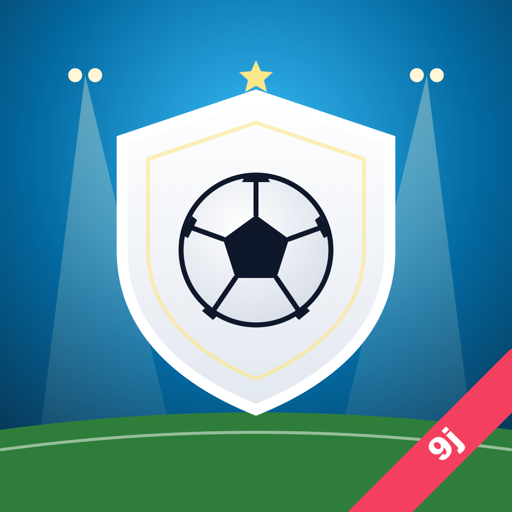
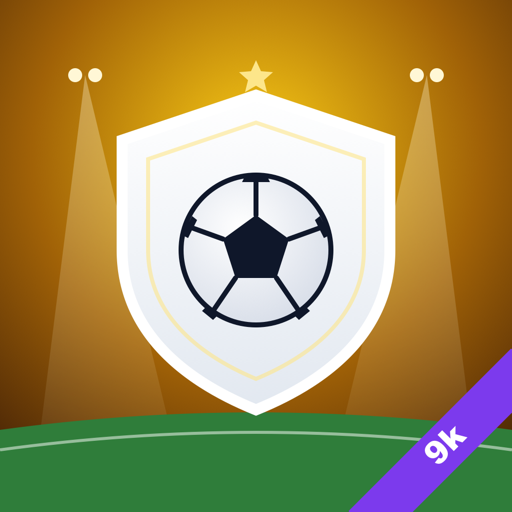
Add files via upload

diff --git a/js/gear.js b/js/gear.js
@@ -1,0 +1,80 @@
+// Club FC: player gear (phase-9k, round 4 item 34). Equipment belongs to your program, not the player: boots, shin pads,
+// a training vest and keeper gloves add + boosts to attributes, and when a player graduates their gear comes back to the
+// kit room for the next one. Gear comes from playing (Missions, chests, the free Pass track), never from the Store,
+// so money still never buys results. Boosts apply in matches only; a player's rating and development stay their own.
+(function (C) {
+  const A = C.ACTS, meta = () => C.meta();
+  const OUT = ['pac', 'sho', 'pas', 'dri', 'def', 'phy'], GK = ['stp', 'crs', 'str', 'ref', 'psn', 'dis'];
+  C.GEAR = {
+    boots: { icon: '👟', name: 'Boots', main: ['pac', 'dri'], gkMain: ['dis', 'ref'] },
+    shins: { icon: '🦺', name: 'Shin pads', main: ['def', 'phy'] },
+    vest: { icon: '🎽', name: 'Training vest', main: ['phy', 'pas'], gkMain: ['str', 'psn'] },
+    gloves: { icon: '🧤', name: 'Keeper gloves', main: ['stp', 'crs'], gk: true }
+  };
+  const RAR = C.RARITY;   // Common … Ultra Rare
+  C.gearSlots = p => p.pos === 'GK' ? ['gloves', 'boots', 'vest'] : ['boots', 'shins', 'vest'];
+  C.gearCap = g => 5 * (g.rar + 1);                                   // level cap by rarity: 5, 10, 15, 20, 25
+  C.gearMain = g => Math.round(1 + g.rar * 1.2 + g.lv * .35);          // added to both main attributes
+  C.gearCost = g => Math.round(600 * (g.lv + 1) * (1 + g.rar * .5) / 50) * 50;
+  const gear = () => { const M = meta(); if (!M.gear) M.gear = []; return M.gear; };
+  C.gearList = gear;
+  const holder = g => g.on && C.P(g.on) ? g.on : null;                 // gear on a player who has left is free again
+  C.gearOn = (p, slot) => gear().find(g => holder(g) === p.id && g.slot === slot) || null;
+
+  // a new piece: rarity rolled (mostly Common/Uncommon), one bonus line per rarity step
+  C.makeGear = (r, slot, rar) => { if (rar == null) { const x = r(); rar = x < .5 ? 0 : x < .8 ? 1 : x < .95 ? 2 : x < .99 ? 3 : 4; }
+    if (!slot) slot = ['boots', 'shins', 'vest', 'gloves'][Math.floor(r() * 4)];
+    const pool = C.GEAR[slot].gk ? GK : OUT, ex = [];
+    for (let i = 0; i < rar; i++) ex.push([pool[Math.floor(r() * pool.length)], 1 + (r() < .3 ? 1 : 0)]);
+    return { id: 'g' + Math.floor(r() * 1e9).toString(36), slot, rar, lv: 1, ex, on: null }; };
+
+  // what a piece adds to one player: both main attributes, plus any bonus lines that player has
+  C.gearBonus = p => { const out = {}; for (const s of C.gearSlots(p)) { const g = C.gearOn(p, s); if (!g) continue; const d = C.GEAR[s], main = p.pos === 'GK' && d.gkMain ? d.gkMain : d.main, v = C.gearMain(g);
+      main.forEach(k => { if (p.a[k] != null) out[k] = (out[k] || 0) + v; }); g.ex.forEach(([k, n]) => { if (p.a[k] != null) out[k] = (out[k] || 0) + n; }); } return out; };
+  C.gearTotal = p => Object.values(C.gearBonus(p)).reduce((s, v) => s + v, 0);
+
+  // matches: each player takes the field with their gear (a copy, so saved attributes never change)
+  const withGear = p => { if (!p) return p; const b = C.gearBonus(p); if (!Object.keys(b).length) return p; const a = Object.assign({}, p.a); for (const k in b) a[k] = Math.min(99, a[k] + b[k]); return Object.assign({}, p, { a }); };
+  const oTeam = C.myTeam; C.myTeam = home => { const T = oTeam(home); T.xi = T.xi.map(withGear); T.bench = T.bench.map(withGear); return T; };
+
+  // rewards: 'gear' gives random pieces
+  const oGive = C.giveReward; C.giveReward = r => { if (r && r.gear && C.car()) { const rr = C.rng((C.now() ^ Math.floor(Math.random() * 1e9)) & 0x7fffffff); for (let i = 0; i < r.gear; i++) gear().push(C.makeGear(rr)); r = Object.assign({}, r); delete r.gear; } oGive(r); };
+  const oText = C.rwText; C.rwText = r => { if (!r || !r.gear) return oText(r); const o = Object.assign({}, r); delete o.gear; return [oText(o), `🎒 ${r.gear > 1 ? r.gear + '× ' : ''}Gear`].filter(Boolean).join(' · '); };
+  const oTiles = C.itemTiles; C.itemTiles = r => { if (!r || !r.gear) return oTiles(r); const o = Object.assign({}, r); delete o.gear; const s = oTiles(o); return s.slice(0, s.lastIndexOf('</span>')) + `<span class="itile t3" title="Gear">🎒<b>${r.gear}</b></span></span>`; };
+
+  // equip, unequip, upgrade
+  C.equip = (gid, pid) => { const g = gear().find(x => x.id === gid), p = C.P(pid); if (!g || !p || !C.gearSlots(p).includes(g.slot)) return false;
+    const cur = C.gearOn(p, g.slot); if (cur) cur.on = null; g.on = pid; C.save(); return true; };
+  C.unequip = gid => { const g = gear().find(x => x.id === gid); if (g) { g.on = null; C.save(); } };
+  C.upgradeGear = gid => { const g = gear().find(x => x.id === gid), car = C.car(); if (!g) return 'gone'; if (g.lv >= C.gearCap(g)) return 'max'; const k = C.gearCost(g); if (car.cash < k) return 'cash';
+    car.cash -= k; g.lv++; C.save(); return true; };
+
+  // ---------- screens ----------
+  const tile = (g, slot, empty) => g ? `<span class="gtile r${g.rar}"><i>${C.GEAR[g.slot].icon}</i><b>Lv.${g.lv}</b><em>${'★'.repeat(Math.max(1, g.rar))}</em></span>` : `<span class="gtile empty"><i>${C.GEAR[slot].icon}</i><b>${empty || '+'}</b></span>`;
+  const lineTxt = (g, p) => { const d = C.GEAR[g.slot], main = p && p.pos === 'GK' && d.gkMain ? d.gkMain : d.main, all = C.attrsOf(p || { pos: d.gk ? 'GK' : 'ST' }), nm = k => (C.ATTR[k] || C.GKATTR[k] || ['', k])[1];
+    return `<div class="gline main">${main.map(nm).join(' · ')} <b>+${C.gearMain(g)}</b></div>${g.ex.map(([k, n]) => `<div class="gline">🔹 ${nm(k)} <b>+${n}</b></div>`).join('')}`; };
+  // the gear row on a player's card
+  C.gearRowHTML = p => `<h3 class="jh">Gear ${C.gearTotal(p) ? `<small class="devp">+${C.gearTotal(p)} in matches</small>` : ''}</h3><div class="grow">${C.gearSlots(p).map(s => `<button class="gslot" data-act="gearslot" data-v="${p.id}|${s}">${tile(C.gearOn(p, s), s)}<small>${C.GEAR[s].name}</small></button>`).join('')}</div>
+    <p class="note" style="margin-top:4px">Gear belongs to your program: it comes back to the kit room when a player leaves.</p>`;
+  let pick = null;
+  A.gearslot = v => { const [pid, slot] = v.split('|'); pick = { pid, slot }; C.ui.open(C.GEAR[slot].name, slotHTML); };
+  function slotHTML() {
+    const p = C.P(pick.pid), slot = pick.slot, cur = C.gearOn(p, slot), list = gear().filter(g => g.slot === slot && g !== cur).sort((a, b) => b.rar - a.rar || b.lv - a.lv);
+    const row = (g, worn) => { const who = holder(g) ? C.P(g.on) : null;
+      return `<div class="gcard r${g.rar}">${tile(g)}<div class="gi"><b>${RAR[g.rar][0]} ${C.GEAR[g.slot].name}</b>${lineTxt(g, p)}${who && !worn ? `<small>Worn by ${C.esc(who.ln)}</small>` : ''}</div>
+        <div class="gb">${worn ? `<button class="btn sm2 sec2" data-act="gearoff" data-v="${g.id}">Remove</button>` : `<button class="btn sm2 pri" data-act="gearon" data-v="${g.id}">${who ? 'Swap' : 'Equip'}</button>`}
+        <button class="btn sm2 ${g.lv >= C.gearCap(g) ? 'sec2' : ''}" data-act="gearup" data-v="${g.id}" ${g.lv >= C.gearCap(g) ? 'disabled' : ''}>${g.lv >= C.gearCap(g) ? 'Max' : `⬆ 💵 ${C.short(C.gearCost(g))}`}</button></div></div>`; };
+    return `${cur ? `<label class="fld">Wearing</label>${row(cur, true)}` : ''}<label class="fld">Kit room</label>${list.length ? list.map(g => row(g, false)).join('') : '<p class="note">No spare pieces for this slot yet. Gear comes from Missions, chests and the free Pass track.</p>'}`;
+  }
+  A.gearon = v => { if (C.equip(v, pick.pid)) { C.toast('🎒 Equipped'); C.ui.back(); C.ui.refresh(); } };
+  A.gearoff = v => { C.unequip(v); C.ui.refresh(); };
+  A.gearup = v => { const r = C.upgradeGear(v); C.toast(r === true ? '⬆ Gear upgraded' : r === 'cash' ? 'Not enough Booster $' : 'At the level cap'); C.ui.refresh(); C.render(); };
+  // the kit room, in the Inventory
+  C.kitRoomHTML = () => { const list = gear().slice().sort((a, b) => b.rar - a.rar || b.lv - a.lv);
+    return list.length ? `<div class="kitg">${list.map(g => { const who = holder(g) ? C.P(g.on) : null; return `<div class="kitc">${tile(g)}<small>${C.GEAR[g.slot].name}</small><em>${who ? C.esc(who.ln) : 'Spare'}</em></div>`; }).join('')}</div>` : '<p class="note">No gear yet.</p>'; };
+
+  // ---------- sources (gameplay only) and a starter set ----------
+  const ensureStarter = () => { const car = C.car(); if (!car) return; const M = meta(); if (M.gearStart) return; M.gearStart = 1; const r = C.rng((car.created & 0xffffff) ^ 0x9e37);
+    ['boots', 'shins', 'vest', 'gloves'].forEach(s => gear().push(C.makeGear(r, s, 0))); C.save(); };
+  const oRender = C.render; C.render = () => { if (C.car()) ensureStarter(); return oRender(); };
+})(window.CFC);

diff --git a/js/meta.js b/js/meta.js
@@ -29,10 +29,11 @@
   let invTab = 'speed';
   C.openInventory = () => C.ui.open('Inventory', () => {
     const car = C.car(), inv = meta().inv, S = C.staffState(), it = car.items || {};
-    const tabs = [['speed', 'Speed-ups'], ['res', 'Resources'], ['special', 'Special']];
+    const tabs = [['speed', 'Speed-ups'], ['gear', 'Gear'], ['res', 'Resources'], ['special', 'Special']];
     const cell = (icon, n, label, act, v, cls = 't1') => `<button class="invc ${cls} ${n ? '' : 'none'}" ${n && act ? `data-act="${act}" data-v="${v}"` : 'disabled'}><span>${icon}</span><b>${n}</b><small>${label}</small></button>`;
     let body = '';
     if (invTab === 'speed') body = ['sp5', 'sp15', 'sp60', 'sp180'].map(k => cell('⏩', inv[k] || 0, XN[k][1].replace(' speed-up', ''), 'invspeed', k, 't' + TIER[k])).join('');
+    if (invTab === 'gear') return `<div class="res hres inv">${C.resBar()}</div><div class="bigtabs">${tabs.map(([k, n]) => `<button class="${invTab === k ? 'on' : ''}" data-act="invtab" data-v="${k}">${n}</button>`).join('')}</div>${C.kitRoomHTML ? C.kitRoomHTML() : ''}<p class="note">Equip gear from a player's card. It returns here when a player leaves. Gear comes from Missions, chests and the free Pass track.</p>`;
     if (invTab === 'res') body = cell('📦', inv.crate || 0, '$5K crate', 'invcrate', '', 't2') + cell('🏅', inv.badge || 0, 'Coaching Badges', 'tab', 'staff', 't3') + cell('📗', S.items.manual, 'Manuals', 'tab', 'staff') + cell('📕', S.items.books, 'Trait Books', 'tab', 'staff', 't3') + cell('🎫', S.items.credits, 'Clinic Credits', 'tab', 'staff');
     if (invTab === 'special') body = cell('🧴', it.kit || 0, 'Recovery kits', 'medical', '') + cell('🎁', it.rareRecruit || 0, 'Rare recruit', 'rare', '', 't4') + cell('🎟', car.tokens || 0, 'Number Changes', 'tab', 'squad', 't2');
     return `<div class="res hres inv">${C.resBar()}</div><div class="bigtabs">${tabs.map(([k, n]) => `<button class="${invTab === k ? 'on' : ''}" data-act="invtab" data-v="${k}">${n}</button>`).join('')}</div>
@@ -57,11 +58,11 @@
     ['roster', '👕', 'Fill the roster to 22 players', c => c.squad.length >= 22, { gold: 30 }, 'tab', 'recruit'],
     ['start', '🏁', 'Start the season', c => !c.pre, { gold: 50, sp60: 1 }, 'preseason', ''],
     ['play', '⚽', 'Play your first match', c => (meta().ms.match || 0) >= 1, { sp60: 1 }, 'prematch', ''],
-    ['train', '🏋', 'Start a training plan', c => (meta().ms.train || 0) >= 1, { manual: 2 }, 'tab', 'squad'],
+    ['train', '🏋', 'Start a training plan', c => (meta().ms.train || 0) >= 1, { manual: 2, gear: 1 }, 'tab', 'squad'],
     ['win', '🏆', 'Win a match', c => (meta().ms.win || 0) >= 1, { gold: 30, crate: 1 }, 'prematch', ''],
     ['hq3', '🏛', "Upgrade the Coaches' Office to Lv 3", c => c.b.hq >= 3, { sp60: 2, badge: 5 }, 'bldopen', 'hq'],
     ['video', '🎞', 'Build the Video Room', c => c.b.video >= 1, { gold: 40 }, 'bldopen', 'video'],
-    ['wins3', '🏆', 'Win 3 matches', c => (meta().ms.win || 0) >= 3, { gold: 60, books: 1 }, 'prematch', ''],
+    ['wins3', '🏆', 'Win 3 matches', c => (meta().ms.win || 0) >= 3, { gold: 60, books: 1, gear: 2 }, 'prematch', ''],
     ['hq5', '🏛', "Reach Coaches' Office Lv 5", c => c.b.hq >= 5, { gold: 80, sp180: 1 }, 'bldopen', 'hq'],
     ['top4', '📊', 'Finish a season in the top 4', c => (meta().ms.top4 || 0) >= 1, { gold: 150, rare: 1 }, 'tab', 'season']
   ];
@@ -76,7 +77,7 @@
     ['train', '🏋', 'Start a training plan', 1, 'tab', 'squad'], ['research', '📋', 'Start Playbook research', 1, 'playbook', ''], ['offer', '✉', 'Make a recruiting offer', 1, 'tab', 'recruit'], ['ad', '▶', 'Watch a rewarded ad', 1, 'adreward', ''],
     ['speed', '⏩', 'Use a speed-up', 1, 'inventory', ''], ['gift', '🎁', 'Claim the daily gift', 1, 'dailygift', ''], ['medical', '🩺', 'Use a physio or recovery item', 1, 'medical', '']];
   const DREW = { match: { cash: 1500 }, win: { gold: 10 }, collect: { cp: 15 }, upgrade: { sp5: 2 }, train: { manual: 1 }, research: { cp: 20 }, offer: { cash: 1000 }, ad: { gold: 5 }, speed: { sp5: 1 }, gift: { cp: 10 }, medical: { kit: 1 } };
-  const CHESTS = [[20, { sp5: 2, cash: 1500 }], [40, { cp: 30, crate: 1 }], [60, { gold: 15, sp15: 1, badge: 1 }], [90, { manual: 2, sp15: 2 }], [120, { gold: 40, sp60: 1, badge: 3 }]];
+  const CHESTS = [[20, { sp5: 2, cash: 1500 }], [40, { cp: 30, crate: 1 }], [60, { gold: 15, sp15: 1, badge: 1 }], [90, { manual: 2, sp15: 2, gear: 1 }], [120, { gold: 40, sp60: 1, badge: 3 }]];
   C.CHESTS = CHESTS;
   function rollDaily() { const M = meta(); if (M.day === dayKey()) return;
     // anything finished but not claimed yesterday goes to the Inbox, so it isn't lost
@@ -93,7 +94,7 @@
 
   // ================= the Pass: 30 tiers, one free tier a day you log in (replaces the 28-day calendar) =================
   const PASS_TIERS = 30;
-  const PFREE = i => (i + 1) % 10 === 0 ? { gold: 60, sp60: 1 } : (i + 1) % 5 === 0 ? { gold: 30, crate: 1, badge: 2 } : [{ cash: 3000 }, { sp15: 1 }, { cp: 40 }, { manual: 1 }, { sp5: 3 }, { credits: 8 }, { gold: 15 }][i % 7];
+  const PFREE = i => i % 10 === 2 ? { gear: 1, cash: 2000 } : (i + 1) % 10 === 0 ? { gold: 60, sp60: 1 } : (i + 1) % 5 === 0 ? { gold: 30, crate: 1, badge: 2 } : [{ cash: 3000 }, { sp15: 1 }, { cp: 40 }, { manual: 1 }, { sp5: 3 }, { credits: 8 }, { gold: 15 }][i % 7];
   const PPREM = i => (i + 1) === 30 ? { coach: 1, gold: 200 } : (i + 1) % 10 === 0 ? { rare: 1, gold: 100 } : (i + 1) % 5 === 0 ? { books: 2, sp180: 1, badge: 8 } : [{ gold: 40 }, { sp60: 1 }, { manual: 2 }, { crate: 2 }, { credits: 15 }, { sp15: 3 }][i % 6];
   C.passX = () => { const M = meta(); if (!M.pass || C.now() - M.pass.start > 30 * D) M.pass = { start: C.now(), days: 0, last: '', prem: M.pass && M.pass.keepPrem ? true : false, f: [], p: [], pts: 0 }; return M.pass; };
   C.passPts = n => { const P = C.passX(); P.pts = (P.pts || 0) + n; };

diff --git a/css/style.css b/css/style.css
@@ -1041,3 +1041,19 @@ button{font-family:inherit;cursor:pointer;color:inherit}
 .piggy>span,.streak>span{font-size:30px}.piggy div,.streak div{flex:1}.piggy b,.streak b{font-size:14.5px}.piggy small,.streak small{display:block;font-size:11.5px;font-weight:800;color:var(--mute)}
 .piggy .btn{line-height:1.1;min-width:76px}.piggy .btn small{color:inherit;opacity:.85}
 .streak .stks{display:flex;gap:4px;flex:none}.stks i{font-style:normal;width:24px;height:24px;border-radius:50%;background:var(--bg);color:var(--mute);font:900 11px/24px Nunito;text-align:center}.stks i.on{background:#f97316;color:#fff}
+
+/* ===== phase-9k: player gear ===== */
+.grow{display:grid;grid-template-columns:repeat(3,1fr);gap:8px}
+.gslot{border:0;background:none;display:flex;flex-direction:column;align-items:center;gap:3px;color:var(--ink)}.gslot small{font-size:11px;font-weight:800;color:var(--mute)}
+.gtile{position:relative;width:62px;height:62px;border-radius:10px;display:flex;align-items:center;justify-content:center;box-shadow:inset 0 0 0 2px rgba(255,255,255,.35),0 2px 0 rgba(0,0,0,.15)}
+.gtile i{font-style:normal;font-size:28px}.gtile b{position:absolute;left:4px;top:3px;font:600 13px/1 Teko,sans-serif;color:#fff;text-shadow:0 1px 1px #000}
+.gtile em{position:absolute;left:0;right:0;bottom:2px;text-align:center;font-style:normal;font-size:9px;color:#fde047;letter-spacing:-1px}
+.gtile.empty{background:var(--bg);box-shadow:inset 0 0 0 2px var(--line)}.gtile.empty i{opacity:.3;filter:grayscale(1)}.gtile.empty b{color:var(--mute);text-shadow:none;left:auto;right:5px}
+.gtile.r0{background:linear-gradient(160deg,#cbd5e1,#64748b)}.gtile.r1{background:linear-gradient(160deg,#86efac,#16a34a)}.gtile.r2{background:linear-gradient(160deg,#93c5fd,#1d4ed8)}
+.gtile.r3{background:linear-gradient(160deg,#d8b4fe,#7e22ce)}.gtile.r4{background:linear-gradient(160deg,#fde68a,#d97706)}
+.gcard{display:flex;gap:10px;align-items:center;background:var(--card);border-radius:12px;box-shadow:var(--shadow);padding:8px;margin-bottom:8px}
+.gcard .gi{flex:1;min-width:0}.gcard .gi b{font-size:13.5px}.gcard .gi small{display:block;color:var(--mute);font-weight:800;font-size:11px}
+.gline{font-size:12px;font-weight:800;color:var(--mute)}.gline b{color:#16a34a}.gline.main{color:var(--ink)}
+.gcard .gb{display:flex;flex-direction:column;gap:6px}.gcard .gb .btn{min-width:84px}
+.kitg{display:grid;grid-template-columns:repeat(4,1fr);gap:8px}
+.kitc{display:flex;flex-direction:column;align-items:center;gap:2px}.kitc small{font-size:10.5px;font-weight:900}.kitc em{font-style:normal;font-size:10px;font-weight:800;color:var(--mute)}

diff --git a/js/squad.js b/js/squad.js
@@ -66,7 +66,7 @@
       <h3 class="jh">${gk ? 'Goalkeeping' : 'Skills'} <button class="hlink" data-act="help" data-v="attrs">?</button></h3>
       <div class="card"><div class="attrs">${Object.keys(A).map(k => `<div class="attr ${C.KEY[p.pos].includes(k) ? 'key' : ''}"><span class="ai">${A[k][0]}</span><div class="ab"><div><span>${A[k][1]}</span><em>${p.a[k]}</em></div><div class="bar"><i style="width:${p.a[k]}%;background:${acol(p.a[k])}"></i></div></div></div>`).join('')}</div>
         ${gk ? `<div class="kstyle">Style: ${C.KEEPER_STYLE(p).map(s => `<span>${s}</span>`).join('')}</div>` : `<div class="kstyle">Also plays: ${p.sec.length ? p.sec.map(s => `<span>${s}</span>`).join('') : '<span>Only ' + p.pos + '</span>'}</div>`}</div>
-      <h3 class="jh">Development <small class="devp">${p.dev}/${p.stars + 2} to next ★</small></h3>${devHTML}
+      <h3 class="jh">Development <small class="devp">${p.dev}/${p.stars + 2} to next ★</small></h3>${devHTML}${C.gearRowHTML ? C.gearRowHTML(p) : ''}
       <h3 class="jh">Squad number <span class="tok">🎟 ${car.tokens}</span></h3>
       <div class="card numcard"><svg class="jersey" viewBox="0 0 60 60"><path d="M18 6 L24 4 Q30 9 36 4 L42 6 L56 14 L50 26 L44 23 V56 H16 V23 L10 26 L4 14Z" fill="${kitOf(p).k1}" stroke="${kitOf(p).k2}" stroke-width="1.5"/><text x="30" y="44" text-anchor="middle" font-family="Graduate,serif" font-size="20" fill="${kitOf(p).k2}">${p.num}</text></svg>
         <div style="flex:1"><b style="font-size:15px">Wears No. ${p.num}</b><br><small class="mutey">${p.want ? (p.want === p.num ? 'Their favourite number · 😀' : `Wants No. ${p.want} · morale lower until they get it`) : 'No preference'}</small></div>

diff --git a/js/state.js b/js/state.js
@@ -1,6 +1,6 @@
 // Club FC: save data, careers (save slots), account and the two clocks (Q13, Q27).
 (function (C) {
-  const KEY = 'clubfc2_p9j';
+  const KEY = 'clubfc2_p9k';
   const FREE_SLOTS = 2;
 
   // Account-wide: Coins and purchases are shared across careers.
@@ -10,7 +10,7 @@
 
   C.load = () => {
     // first open: carry over the latest earlier save (9b, then 9) (and intro flag) so playtest progress isn't lost
-    try { for (const old of ['clubfc2_p9i', 'clubfc2_p9h', 'clubfc2_p9g', 'clubfc2_p9f', 'clubfc2_p9e', 'clubfc2_p9d', 'clubfc2_p9c', 'clubfc2_p9b', 'clubfc2_p9']) { if (!localStorage.getItem(KEY) && localStorage.getItem(old)) { localStorage.setItem(KEY, localStorage.getItem(old)); if (localStorage.getItem(old + '_intro')) localStorage.setItem(KEY + '_intro', '1'); } } } catch (e) { }
+    try { for (const old of ['clubfc2_p9j', 'clubfc2_p9i', 'clubfc2_p9h', 'clubfc2_p9g', 'clubfc2_p9f', 'clubfc2_p9e', 'clubfc2_p9d', 'clubfc2_p9c', 'clubfc2_p9b', 'clubfc2_p9']) { if (!localStorage.getItem(KEY) && localStorage.getItem(old)) { localStorage.setItem(KEY, localStorage.getItem(old)); if (localStorage.getItem(old + '_intro')) localStorage.setItem(KEY + '_intro', '1'); } } } catch (e) { }
     try { const raw = localStorage.getItem(KEY); if (raw) { const d = JSON.parse(raw); if (d && d.v === 2) C.db = d; } } catch (e) { /* storage blocked: play without saving */ }
     C.db.account = Object.assign(freshAccount(), C.db.account);
     C.db.careers.forEach(c => { if (c.job && !c.job.mix) { c.job.rating = { 3: 46, 2: 42, 1: 38 }[c.job.stars] + 1; c.job.mix = [6, 6, 5, 4]; } C.ensureSquad(c);

diff --git a/sw.js b/sw.js
@@ -1,8 +1,8 @@
 // Club FC offline cache. Bump VERSION when you publish a new build.
-const PREFIX = 'clubfc2-p9j';
-const VERSION = 'clubfc2-p9j-net1';
+const PREFIX = 'clubfc2-p9k';
+const VERSION = 'clubfc2-p9k-net1';
 const FILES = ['./', './index.html', './manifest.webmanifest', './css/style.css',
-  './js/util.js', './js/data.js', './js/art-scenes.js', './img/manifest.json', './js/state.js', './js/build.js', './js/names.js', './js/art-faces.js', './js/players.js', './js/squad.js', './js/recruit.js', './js/engine.js', './js/season.js', './js/tactics.js', './js/match.js', './js/staff.js', './js/playbook.js', './js/career.js', './js/liveops.js', './js/medical.js', './js/home.js', './js/art-campus.js', './js/ui.js', './js/jobs.js', './js/help.js', './js/ad.js', './js/screens.js', './js/meta.js', './js/map.js', './js/progress.js', './js/main.js',
+  './js/util.js', './js/data.js', './js/art-scenes.js', './img/manifest.json', './js/state.js', './js/build.js', './js/names.js', './js/art-faces.js', './js/players.js', './js/squad.js', './js/recruit.js', './js/engine.js', './js/season.js', './js/tactics.js', './js/match.js', './js/staff.js', './js/playbook.js', './js/career.js', './js/liveops.js', './js/medical.js', './js/home.js', './js/art-campus.js', './js/ui.js', './js/jobs.js', './js/help.js', './js/ad.js', './js/screens.js', './js/meta.js', './js/map.js', './js/progress.js', './js/gear.js', './js/main.js',
   './icon-192.png', './icon-512.png', './apple-touch-icon.png'];
 
 // Network first, so a new upload shows up as soon as the page is opened online.

diff --git a/index.html b/index.html
@@ -7,7 +7,7 @@
 <meta name="apple-mobile-web-app-capable" content="yes">
 <meta name="apple-mobile-web-app-status-bar-style" content="black-translucent">
 <title>Club FC</title>
-<meta name="apple-mobile-web-app-title" content="Club FC 9j">
+<meta name="apple-mobile-web-app-title" content="Club FC 9k">
 <link rel="manifest" href="manifest.webmanifest">
 <link rel="apple-touch-icon" href="apple-touch-icon.png">
 <link rel="preconnect" href="https://fonts.googleapis.com">
@@ -45,6 +45,7 @@
 <script src="js/meta.js"></script>
 <script src="js/map.js"></script>
 <script src="js/progress.js"></script>
+<script src="js/gear.js"></script>
 <script src="js/main.js"></script>
 </body>
 </html>

diff --git a/js/main.js b/js/main.js
@@ -7,7 +7,7 @@
     if (col) { r.setProperty('--school', col.c1); r.setProperty('--school2', col.c2); } };
 
   let e2 = null;
-  C.BUILD = 'phase-9j · 3 Nov 2026';
+  C.BUILD = 'phase-9k · 3 Nov 2026';
   // actions that spend something: show a preview first, act only once confirmed
   const NEEDS_OK = { buyweekly: 1, buydeal: 1, buy: 1, buypack: 1, cmanual: 1, clic: 1, ctrait: 1, treatc: 1, buykitc: 1, teamsess: 1, chire: 1 };
   function preview(a, v) {
